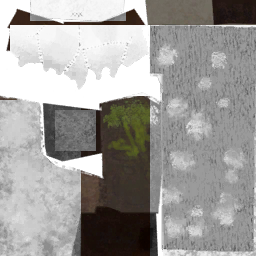
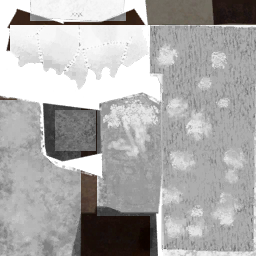
Dyes: root bark zone and full root helmet, Megingjord dyeable, dye window preview zoom (2.4.0.632)

Changed region(s): [[0.375, 0.3438, 0.5938, 0.8438]]

diff --git a/Overhaul/Dyes/DyeWindow.cs b/Overhaul/Dyes/DyeWindow.cs
@@ -54,6 +54,7 @@ namespace Overhaul.Dyes
                 Wire(panel.transform);
             }
             if (InventoryGui.instance && InventoryGui.IsVisible()) InventoryGui.instance.Hide();
+            Preview.Distance = Preview.FarDistance; Preview.Height = Preview.MiddleHeight;   // whole body again at each opening
             Collect();
             Select(items.Contains(selected) ? selected : items.FirstOrDefault());
             root.SetActive(true); ZCursor.LockState = CursorLockMode.None; ZCursor.Show();
@@ -270,6 +271,21 @@ namespace Overhaul.Dyes
             static VisEquipment vis;
             static int layer = -1;
             internal static float Yaw = 0;   // facing the camera, which stands in front (+z)
+            // Mouse wheel on the character: camera distance from FarDistance (whole body) to NearDistance; dragging up and
+            // down then moves the looked-at height (head to feet), back to the body's middle when zoomed out.
+            internal const float FarDistance = 4.6f, NearDistance = 1.1f, MiddleHeight = .95f;
+            internal static float Distance = FarDistance, Height = MiddleHeight;
+            internal static void Zoom(float steps)
+            {
+                Distance = Mathf.Clamp(Distance * Mathf.Pow(.85f, steps), NearDistance, FarDistance);
+                Pan(0);
+            }
+            internal static void Pan(float metres)
+            {
+                // The further the camera, the less the height may leave the middle (whole body stays in view zoomed out).
+                float room = .85f * Mathf.InverseLerp(FarDistance, NearDistance, Distance);
+                Height = Mathf.Clamp(Height + metres, MiddleHeight - room, MiddleHeight + room);
+            }
             static readonly Vector3 Place = new Vector3(0, 6000, 0);
 
             static int Layer()
@@ -320,6 +336,7 @@ namespace Overhaul.Dyes
             {
                 if (!puppet) return;
                 puppet.transform.rotation = Quaternion.Euler(0, Yaw, 0);
+                Frame();
                 foreach (var a in puppet.GetComponentsInChildren<Animator>()) a.SetBool(OnGround, true);
                 // The game's updater does not reach this copy: its visuals (body, hair, gear) are updated here.
                 try { vis.CustomUpdate(Time.deltaTime, Time.time); }
@@ -371,16 +388,17 @@ namespace Overhaul.Dyes
                     vis.m_skinColor = zdo.GetVec3(ZDOVars.s_skinColor, Vector3.one); vis.m_hairColor = zdo.GetVec3(ZDOVars.s_hairColor, Vector3.one);
                     vis.m_hairItem = zdo.GetInt(ZDOVars.s_hairItem, 0); vis.m_beardItem = zdo.GetInt(ZDOVars.s_beardItem, 0);
                 }
-                var shown = new ItemDrop.ItemData[4];
-                for (int s = 0; s < 4; s++) shown[s] = ShownItem(player, s);
+                var shown = new ItemDrop.ItemData[DyeVisuals.SlotCount];
+                for (int s = 0; s < shown.Length; s++) shown[s] = ShownItem(player, s);
                 int slot = item == null ? -1 : SlotOf(item);
                 if (slot >= 0) shown[slot] = item;
                 int Hash(ItemDrop.ItemData i) => i?.m_dropPrefab ? i.m_dropPrefab.name.GetStableHashCode() : 0;
                 vis.m_helmetItem = Hash(shown[0]); vis.m_chestItem = Hash(shown[1]); vis.m_legItem = Hash(shown[2]); vis.m_shoulderItem = Hash(shown[3]);
                 vis.m_shoulderItemVariant = shown[3]?.m_variant ?? 0;
+                vis.m_utilityItem = Hash(shown[4]);
                 vis.m_leftItem = vis.m_rightItem = 0;
-                var overrides = new string[4];
-                for (int s = 0; s < 4; s++)
+                var overrides = new string[DyeVisuals.SlotCount];
+                for (int s = 0; s < overrides.Length; s++)
                 {
                     var it = shown[s]; if (it == null || DyeGear.Of(it) == null) continue;
                     var dyes = it == item && ids != null ? ids : DyeVisuals.Read(it, DyeGear.Of(it).Zones.Length);
@@ -390,6 +408,7 @@ namespace Overhaul.Dyes
             }
             static ItemDrop.ItemData ShownItem(Player p, int slot)
             {
+                if (slot == 4) return p.m_utilityItem;   // no cosmetic slot for utility items
                 var cosmetic = EquipmentAndQuickSlots.CosmeticEquipment.Get(p, slot);
                 if (cosmetic != null) return cosmetic;
                 return slot == 0 ? p.m_helmetItem : slot == 1 ? p.m_chestItem : slot == 2 ? p.m_legItem : p.m_shoulderItem;
@@ -402,14 +421,17 @@ namespace Overhaul.Dyes
                     case ItemDrop.ItemData.ItemType.Chest: return 1;
                     case ItemDrop.ItemData.ItemType.Legs: return 2;
                     case ItemDrop.ItemData.ItemType.Shoulder: return 3;
+                    case ItemDrop.ItemData.ItemType.Utility: return 4;
                     default: return -1;
                 }
             }
             // Whole body in view, a little from above.
             static void Frame()
             {
-                cameraGo.transform.position = Place + new Vector3(0, 1.05f, 0) + Quaternion.Euler(8, 0, 0) * new Vector3(0, 0, 4.6f);
-                cameraGo.transform.LookAt(Place + new Vector3(0, .95f, 0));
+                if (!cameraGo) return;
+                var target = Place + new Vector3(0, Height, 0);
+                cameraGo.transform.position = target + new Vector3(0, .1f, 0) + Quaternion.Euler(8, 0, 0) * new Vector3(0, 0, Distance);
+                cameraGo.transform.LookAt(target);
             }
         }
 
@@ -420,6 +442,13 @@ namespace Overhaul.Dyes
         static class ControllerInput { static bool Prefix(ref bool __result) { if (!BlocksInput) return true; __result = false; return false; } }
         [HarmonyPatch(typeof(GameCamera), nameof(GameCamera.UpdateMouseCapture))]
         static class CursorInput { static bool Prefix() { if (!Visible) return true; ZCursor.LockState = CursorLockMode.None; ZCursor.Show(); return false; } }
+        // The mouse wheel zooms the preview only, never the game camera behind the window.
+        [HarmonyPatch(typeof(GameCamera), "UpdateCamera")]
+        static class NoWorldZoom
+        {
+            static void Prefix(GameCamera __instance, out float __state) { __state = __instance.m_zoomSens; if (Visible) __instance.m_zoomSens = 0; }
+            static void Finalizer(GameCamera __instance, float __state) => __instance.m_zoomSens = __state;
+        }
         [HarmonyPatch(typeof(Menu), "Update")]
         static class MenuInput { static bool Prefix() => !BlocksInput; }
         // The inventory does not open over the window.
@@ -427,10 +456,15 @@ namespace Overhaul.Dyes
         static class NoInventory { static bool Prefix() => !Visible; }
     }
 
-    // Dragging on the character turns it.
-    internal sealed class DyeDrag : MonoBehaviour, IDragHandler
+    // Dragging on the character turns it (sideways) and, zoomed in, moves the view up and down; the wheel zooms.
+    internal sealed class DyeDrag : MonoBehaviour, IDragHandler, IScrollHandler
     {
-        public void OnDrag(PointerEventData e) { DyeWindow.Preview.Yaw -= e.delta.x * .5f; }
+        public void OnDrag(PointerEventData e)
+        {
+            DyeWindow.Preview.Yaw -= e.delta.x * .5f;
+            DyeWindow.Preview.Pan(-e.delta.y * .004f * DyeWindow.Preview.Distance / DyeWindow.Preview.FarDistance);
+        }
+        public void OnScroll(PointerEventData e) { DyeWindow.Preview.Zoom(e.scrollDelta.y); }
     }
 
     // The metal track: the colour as in the game (a little grey veil) to all metal (deeper, its glints in its own colour).

diff --git a/Overhaul/Dyes/DyeVisuals.cs b/Overhaul/Dyes/DyeVisuals.cs
@@ -9,15 +9,16 @@ using UnityEngine;
 namespace Overhaul.Dyes
 {
     // Dyes on gear: saved on the item (custom data "overhaul_dye" = colour IDs per zone, "-" = left as in the game) and shown
-    // on every player who sees it. The owner publishes the dyes of the four armour slots it shows (helmet, chest, legs,
-    // cape; cosmetic slots first, as the visuals do) in its ZDO; every client then tints those pieces on that player.
+    // on every player who sees it. The owner publishes the dyes of the slots it shows (helmet, chest, legs, cape, belt or
+    // other utility item; cosmetic slots first, as the visuals do) in its ZDO; every client then tints those pieces on that player.
     // Pieces are tinted through material property blocks (worn meshes) or the body material's _ChestTex / _LegsTex
     // (armour painted on the skin), with textures composed once per (item, colours) and kept.
     internal static class DyeVisuals
     {
         internal const string DataKey = "overhaul_dye";
-        internal enum Slot { Helmet, Chest, Legs, Cape }
-        static readonly string[] ZdoKeys = { "overhaul_dye_helmet", "overhaul_dye_chest", "overhaul_dye_legs", "overhaul_dye_cape" };
+        internal enum Slot { Helmet, Chest, Legs, Cape, Utility }
+        internal const int SlotCount = 5;
+        static readonly string[] ZdoKeys = { "overhaul_dye_helmet", "overhaul_dye_chest", "overhaul_dye_legs", "overhaul_dye_cape", "overhaul_dye_utility" };
         static readonly int[] ZdoHashes = ZdoKeys.Select(k => k.GetStableHashCode()).ToArray();
         static readonly int MainTex = Shader.PropertyToID("_MainTex"), ChestTex = Shader.PropertyToID("_ChestTex"), LegsTex = Shader.PropertyToID("_LegsTex");
 
@@ -48,13 +49,15 @@ namespace Overhaul.Dyes
         // The piece shown in each slot: the cosmetic one when set, else the equipped one.
         static ItemDrop.ItemData Shown(Player p, Slot slot)
         {
-            var cosmetic = EquipmentAndQuickSlots.CosmeticEquipment.Get(p, (int)slot);
+            // Cosmetic slots exist for the four armour pieces only.
+            var cosmetic = slot == Slot.Utility ? null : EquipmentAndQuickSlots.CosmeticEquipment.Get(p, (int)slot);
             if (cosmetic != null) return cosmetic;
             switch (slot)
             {
                 case Slot.Helmet: return p.m_helmetItem;
                 case Slot.Chest: return p.m_chestItem;
                 case Slot.Legs: return p.m_legItem;
+                case Slot.Utility: return p.m_utilityItem;
                 default: return p.m_shoulderItem;
             }
         }
@@ -62,7 +65,7 @@ namespace Overhaul.Dyes
         {
             if (!p || !p.m_nview || !p.m_nview.IsValid() || !p.m_nview.IsOwner()) return;
             var zdo = p.m_nview.GetZDO();
-            for (int i = 0; i < 4; i++)
+            for (int i = 0; i < SlotCount; i++)
             {
                 var value = Encode(Shown(p, (Slot)i));
                 if (zdo.GetString(ZdoHashes[i], "") != value) zdo.Set(ZdoHashes[i], value);
@@ -83,7 +86,7 @@ namespace Overhaul.Dyes
         internal static readonly ConditionalWeakTable<VisEquipment, string[]> Overrides = new ConditionalWeakTable<VisEquipment, string[]>();
 
         sealed class Applied { public string Value = ""; public object Instances; public int Hash; }
-        sealed class State { public readonly Applied[] Slots = { new Applied(), new Applied(), new Applied(), new Applied() }; }
+        sealed class State { public readonly Applied[] Slots = Enumerable.Range(0, SlotCount).Select(_ => new Applied()).ToArray(); }
         static readonly ConditionalWeakTable<VisEquipment, State> States = new ConditionalWeakTable<VisEquipment, State>();
 
         [HarmonyPatch(typeof(VisEquipment), "UpdateEquipmentVisuals")]
@@ -102,9 +105,9 @@ namespace Overhaul.Dyes
                     if (zdo == null && !Overrides.TryGetValue(__instance, out wanted)) return;
                 }
                 var state = States.GetOrCreateValue(__instance);
-                for (int i = 0; i < 4; i++)
+                for (int i = 0; i < SlotCount; i++)
                 {
-                    string value = zdo != null ? zdo.GetString(ZdoHashes[i], "") : wanted[i] ?? "";
+                    string value = zdo != null ? zdo.GetString(ZdoHashes[i], "") : i < wanted.Length ? wanted[i] ?? "" : "";
                     object instances = Instances(__instance, (Slot)i);
                     int hash = Hash(__instance, (Slot)i);
                     var applied = state.Slots[i];
@@ -127,11 +130,11 @@ namespace Overhaul.Dyes
             if (zdo == null || !ObjectDB.instance) return null;
             var cache = standCache.GetOrCreateValue(v);
             if (cache.Values != null && cache.Revision == zdo.DataRevision) return cache.Values;
-            var values = new string[4];
+            var values = new string[SlotCount];
             for (int i = 0; i < stand.m_slots.Count; i++)
             {
                 var visSlot = stand.m_slots[i].m_slot;
-                int slot = visSlot == VisSlot.Helmet ? 0 : visSlot == VisSlot.Chest ? 1 : visSlot == VisSlot.Legs ? 2 : visSlot == VisSlot.Shoulder ? 3 : -1;
+                int slot = visSlot == VisSlot.Helmet ? 0 : visSlot == VisSlot.Chest ? 1 : visSlot == VisSlot.Legs ? 2 : visSlot == VisSlot.Shoulder ? 3 : visSlot == VisSlot.Utility ? 4 : -1;
                 if (slot < 0) continue;
                 int hash = zdo.GetInt(ArmorStand.s_itemKeyHashes[i], 0);
                 var prefab = hash != 0 ? ObjectDB.instance.GetItemPrefab(hash) : null;
@@ -145,13 +148,15 @@ namespace Overhaul.Dyes
         }
 
         static object Instances(VisEquipment v, Slot s) =>
-            s == Slot.Helmet ? (object)v.m_helmetItemInstance : s == Slot.Chest ? v.m_chestItemInstances : s == Slot.Legs ? (object)v.m_legItemInstances : v.m_shoulderItemInstances;
+            s == Slot.Helmet ? (object)v.m_helmetItemInstance : s == Slot.Chest ? v.m_chestItemInstances : s == Slot.Legs ? (object)v.m_legItemInstances
+            : s == Slot.Utility ? v.m_utilityItemInstances : v.m_shoulderItemInstances;
         static int Hash(VisEquipment v, Slot s) =>
-            s == Slot.Helmet ? v.m_currentHelmetItemHash : s == Slot.Chest ? v.m_currentChestItemHash : s == Slot.Legs ? v.m_currentLegItemHash : v.m_currentShoulderItemHash;
+            s == Slot.Helmet ? v.m_currentHelmetItemHash : s == Slot.Chest ? v.m_currentChestItemHash : s == Slot.Legs ? v.m_currentLegItemHash
+            : s == Slot.Utility ? v.m_currentUtilityItemHash : v.m_currentShoulderItemHash;
         static IEnumerable<GameObject> Objects(VisEquipment v, Slot s)
         {
             if (s == Slot.Helmet) { if (v.m_helmetItemInstance) yield return v.m_helmetItemInstance; yield break; }
-            var list = s == Slot.Chest ? v.m_chestItemInstances : s == Slot.Legs ? v.m_legItemInstances : v.m_shoulderItemInstances;
+            var list = s == Slot.Chest ? v.m_chestItemInstances : s == Slot.Legs ? v.m_legItemInstances : s == Slot.Utility ? v.m_utilityItemInstances : v.m_shoulderItemInstances;
             if (list != null) foreach (var o in list) if (o) yield return o;
         }
 

diff --git a/Overhaul/Properties/BuildVersion.g.cs b/Overhaul/Properties/BuildVersion.g.cs
@@ -1,2 +1,2 @@
 // Generated by Increment-Version.ps1. Edit Version.json instead.
-namespace Overhaul { internal static class BuildVersion { internal const string Value = "2.4.0.630"; } }
+namespace Overhaul { internal static class BuildVersion { internal const string Value = "2.4.0.632"; } }

diff --git a/CHANGELOG.md b/CHANGELOG.md
@@ -9,6 +9,7 @@
 - Dyes: shown on armour stands; lox armour, bear and cursed bear sets dyeable; metal slider no longer turns a piece with metal parts all metallic (its metal map read in the right colour space).
 - Mystic dye: on the ground it is now a clay pot of rainbow paste with its wooden spoon (model and texture by plopyy) instead of a lump of resin.
 - Dyes: bear set zones boots / fur / belt / loincloth (war paint and necklace left as in the game), cursed bear belt and straps in their own zone.
+- Dyes: root set split into roots and bark (the mossy bark plates the roots wind over had been dyed as roots); the root helmet's whole head can now be dyed (only its root took a colour). Megingjord belt dyeable (leather, gold buckle and studs). Dye window: the mouse wheel on the character zooms in (dragging up and down then moves from head to feet) without zooming the game camera behind.
 ### Added
 - **Dyes**: gear can be dyed. A button on the right edge of the equipment panel opens the dyeing window: the dyeable gear of the bag on the left, the character wearing the selected piece in the middle (standing, facing you, turned by dragging), the piece's zones (1 to 4: cloth, leather, metal, feathers, fur...) on the right with three sliders, hue, saturation and contrast, to give each zone any colour (saturation at 0: contrast goes from white to black). Apply dyes every zone at once for one mystic dye per zone changed (in red when the bag holds too few, Apply then off); Restore gives a zone back its original look for free. Mystic dye, a single item for every colour: 10 crafted at the workbench from a raspberry, blueberries, a dandelion, guck and 2 mystic powders. The former colour dyes have no recipe any more and turn into mystic dyes one for one; gear already dyed keeps its colour. Dyed gear keeps its relief, black and white included, and other players see it. For now on the Eitr-weave set and feather cape (zones redrawn by hand: the belt pot and its cork keep their look), the padded set, the carapace set and the deer hide set with its cape. (2.4.0.571-585)
 - **Class window, skill details**: the detail panel now shows Trigger (passive/active) and Type (normal, ultimate, special, main) lines above the rank, labels in bold light blue; values in descriptions (damage, stats, durations, chances) are in bold warm yellow, next ranks included. (2.4.0.567)
